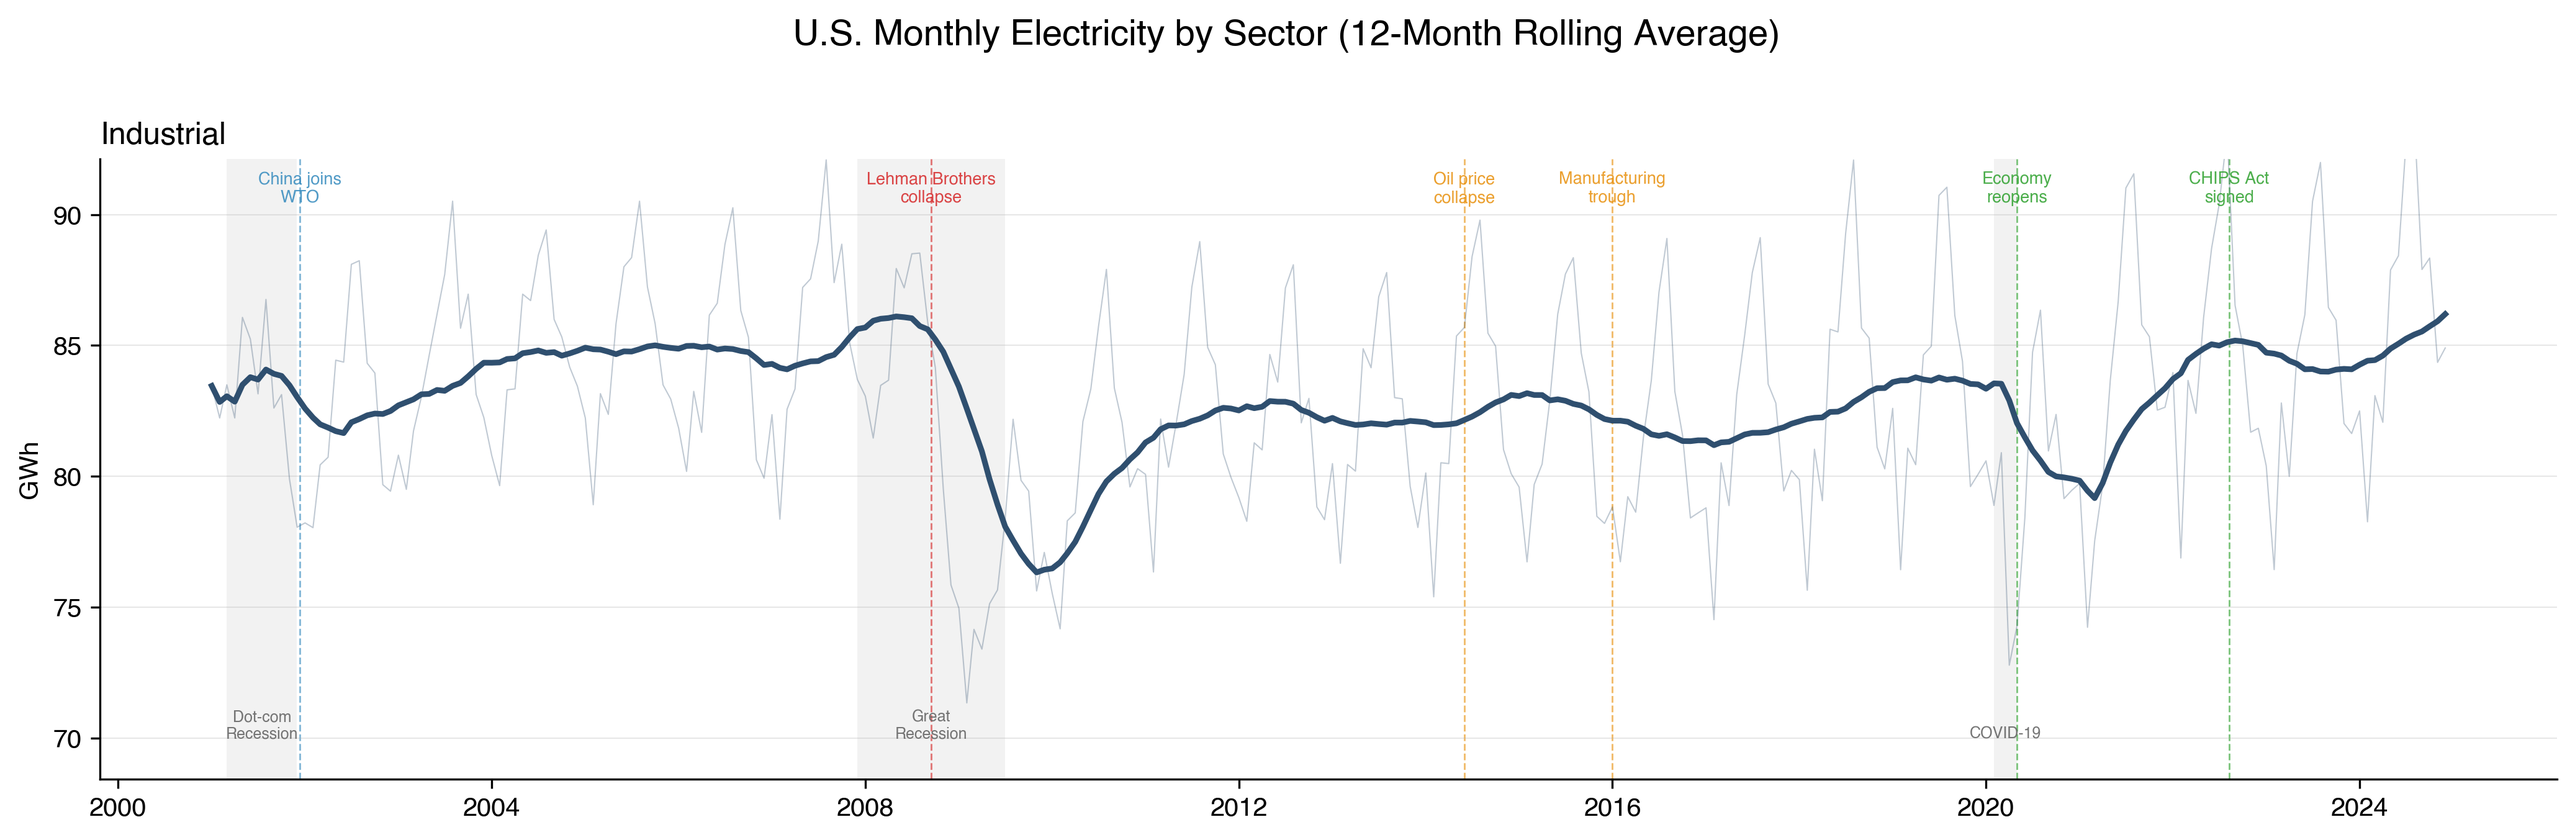
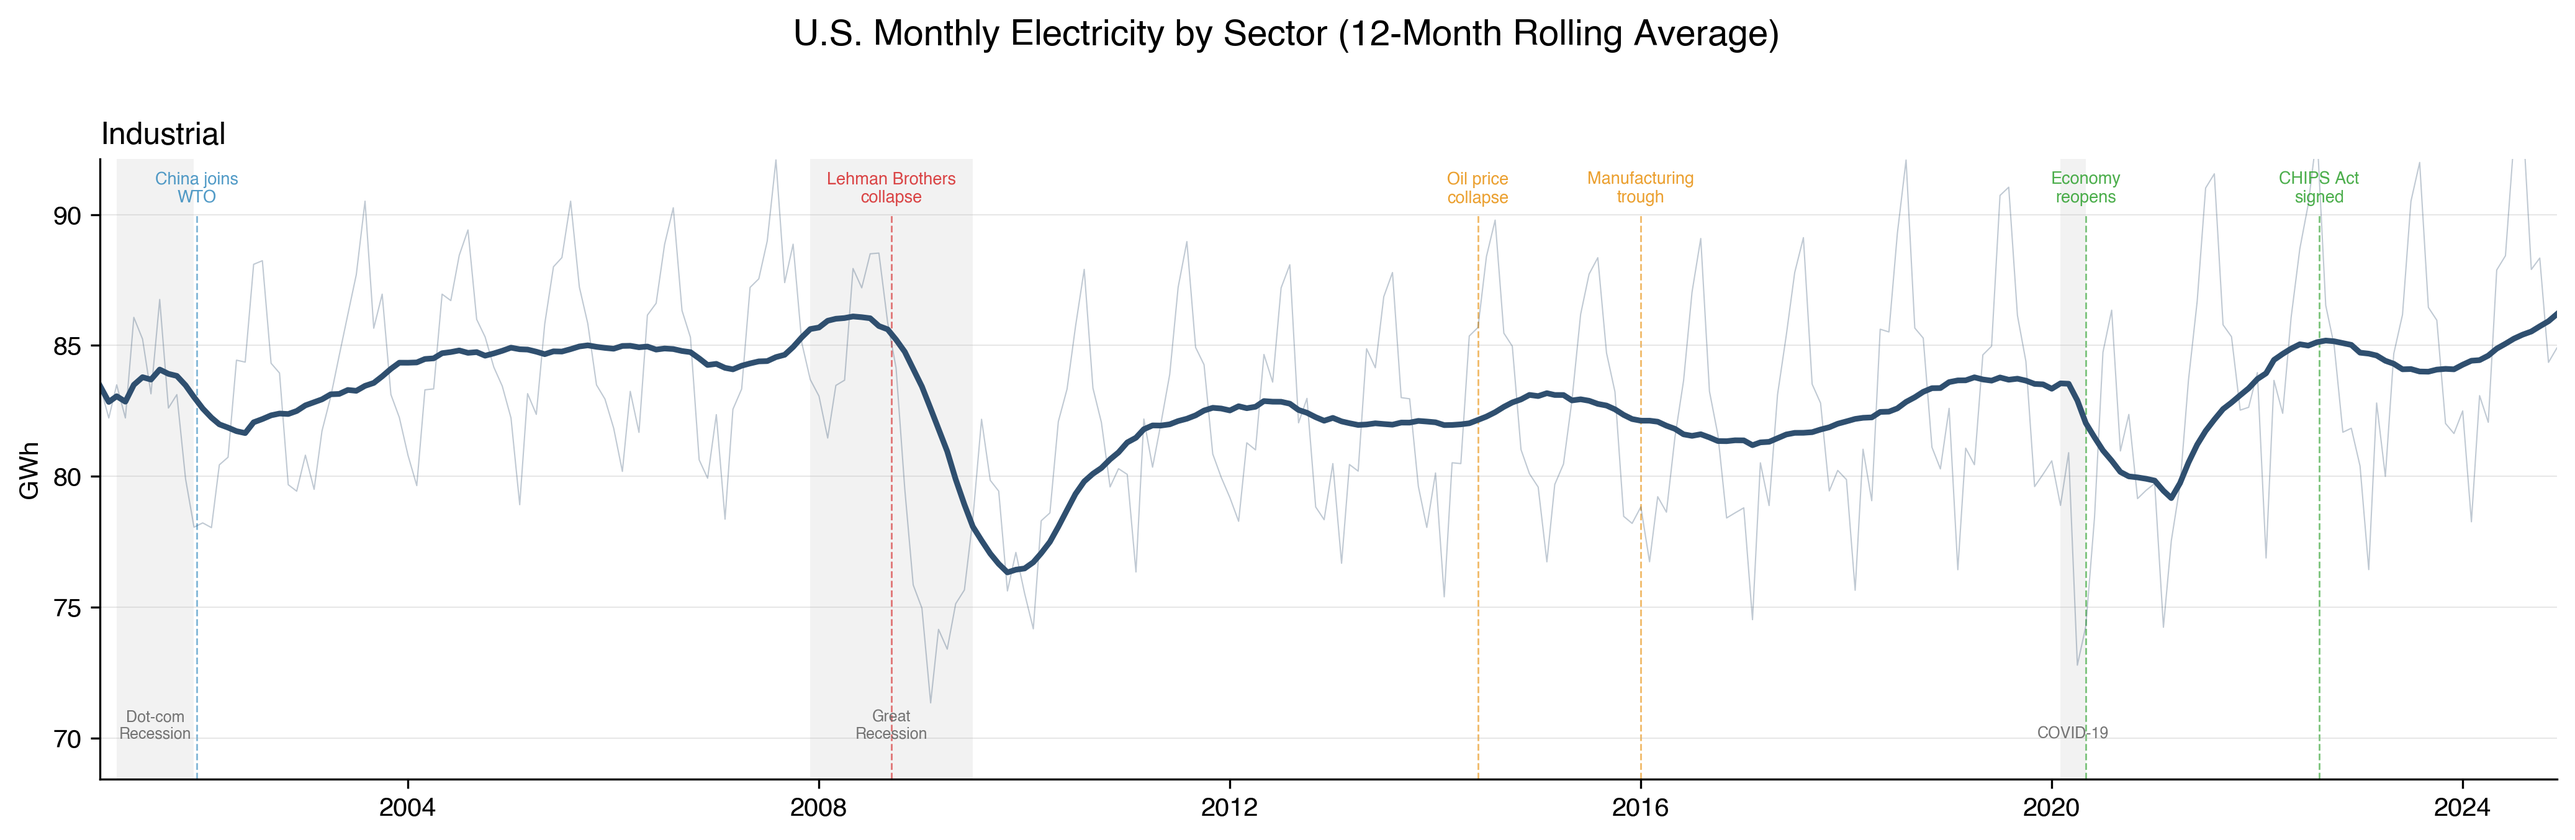
polish figures

diff --git a/src/eda/vis_lags.py b/src/eda/vis_lags.py
@@ -60,11 +60,13 @@ def plot_lag_analysis(df: pd.DataFrame, corr_df: pd.DataFrame) -> None:
                 ax.plot(lag_list, rs, linewidth=0.8,
                         color="#2F4F6F", alpha=0.15)
 
-        # Overlay key states on top
-        for state, rs in key_curves.items():
-            name, color = key_states[state]
-            ax.plot(lag_list, rs, linewidth=2.0,
-                    color=color, alpha=0.9, label=name)
+        # Overlay key states on top (in pick_key_states order: green, yellow, red)
+        key_order = [abbr for abbr, _name, _r, _color in pick_key_states(corr_df)]
+        for state in key_order:
+            if state in key_curves:
+                name, color = key_states[state]
+                ax.plot(lag_list, key_curves[state], linewidth=2.0,
+                        color=color, alpha=0.9, label=name)
 
         # 95% significance band under the null of no correlation
         if sample_n:

diff --git a/src/eda/vis_national.py b/src/eda/vis_national.py
@@ -55,7 +55,8 @@ def _add_events(ax, ymin: float, ymax: float) -> None:
 
     for date_str, label, color in EVENT_LINES:
         dt = pd.Timestamp(date_str)
-        ax.axvline(dt, color=color, linewidth=0.7, linestyle="--", alpha=0.6, zorder=1)
+        ax.vlines(dt, ymin, 90, color=color, linewidth=0.7, linestyle="--",
+                  alpha=0.6, zorder=1)
         ax.text(
             dt, ymax - (ymax - ymin) * 0.02, label,
             fontsize=6.5, color=color, ha="center", va="top",
@@ -92,6 +93,7 @@ def plot_national_trends(df: pd.DataFrame) -> None:
             ax.set_title(PANEL_TITLES[sector], fontsize=12, fontweight="bold", loc="left")
 
             _add_events(ax, ymin, ymax)
+            ax.set_xlim(national.index.min(), national.index.max())
 
         fig.suptitle(
             "U.S. Monthly Electricity by Sector (12-Month Rolling Average)",

diff --git a/src/eda/vis_deepdive.py b/src/eda/vis_deepdive.py
@@ -55,6 +55,7 @@ def plot_deepdive(df: pd.DataFrame, corr_df: pd.DataFrame) -> None:
             ax.set_ylabel("Relative level", fontsize=9)
             ax.axhline(0, color="gray", linewidth=0.3)
 
+        axes[-1].set_xlim(dates.min(), dates.max())
         axes[0].legend(loc="upper left", fontsize=8)
 
         fig.suptitle(
